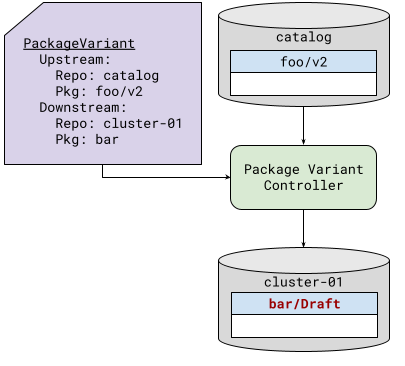
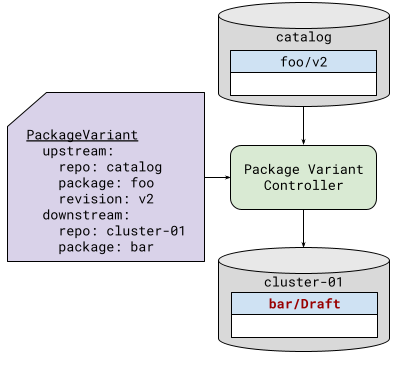
Rework PVS design and better figures

Changed region(s): [[0.0, 0.0, 0.5037, 0.7213]]

diff --git a/docs/design-docs/08-package-variant.md b/docs/design-docs/08-package-variant.md
@@ -300,26 +300,39 @@ The package variant set controller is designed to fill this common need. This
 controller consumes PackageVariantSet resources, and outputs PackageVariant
 resources. The PackageVariantSet defines:
 - the upstream package
-- a list of targets
+- targeting criteria
 - rules for generating one PackageVariant per target
 
 Three types of targeting are supported:
-- An explicit list of repository and package names
-- A label selector for Repository objects along with a way to generate package
-  names from those objects
-- An arbitrary object selector, along with ways to generate repository and
-  package names from those objects
+- An explicit list of repositories
+- A label selector for Repository objects
+- An arbitrary object selector, along with ways to generate repository names
+  from those objects
+
+The rules for generating a PackageVariant are associated with a list of targets
+using a template. That template can have explicit values for various
+PackageVariant fields, or it can use [Common Expression Language
+(CEL)](https://github.com/google/cel-go) expressions to specify the field
+values.
 
 *Figure 5* shows an example of creating PackageVariant resources based upon the
-explicitly list of repository and package names.
+explicitly list of repositories. In this example, for the `cluster-01` and
+`cluster-02` repositories, no template is defined the resulting PackageVariants;
+it simply takes the defaults. However, for `cluster-03`, a template is defined
+to change the downstream package name to `bar`.
 
-| ![Figure 5: PackageVariantSet with List of Targets](packagevariantset-target-package.png) |
+| ![Figure 5: PackageVariantSet with List](packagevariantset-target-list.png) |
 | :---: |
-| *Figure 5: PackageVariantSet with List of Targets* |
+| *Figure 5: PackageVariantSet with List* |
 
-Rules for generating PackageVariant resources can also access the fields of
-the target objects, allowing the package context values, injection selectors,
-and function inputs to vary based upon the target.
+*Figure 6* shows an that combines a repository label selector, with
+configuration injection that various based upon the target. The template for the
+PackageVariant includes a CEL expression for the one of the injectors, so that
+the injection varies systematically based upon attributes of the target.
+
+| ![Figure 6: PackageVariantSet with Repository Selector](packagevariantset-target-repository-selector.png) |
+| :---: |
+| *Figure 6: PackageVariantSet with Repository Selector* |
 
 ## Example Use Cases
 
